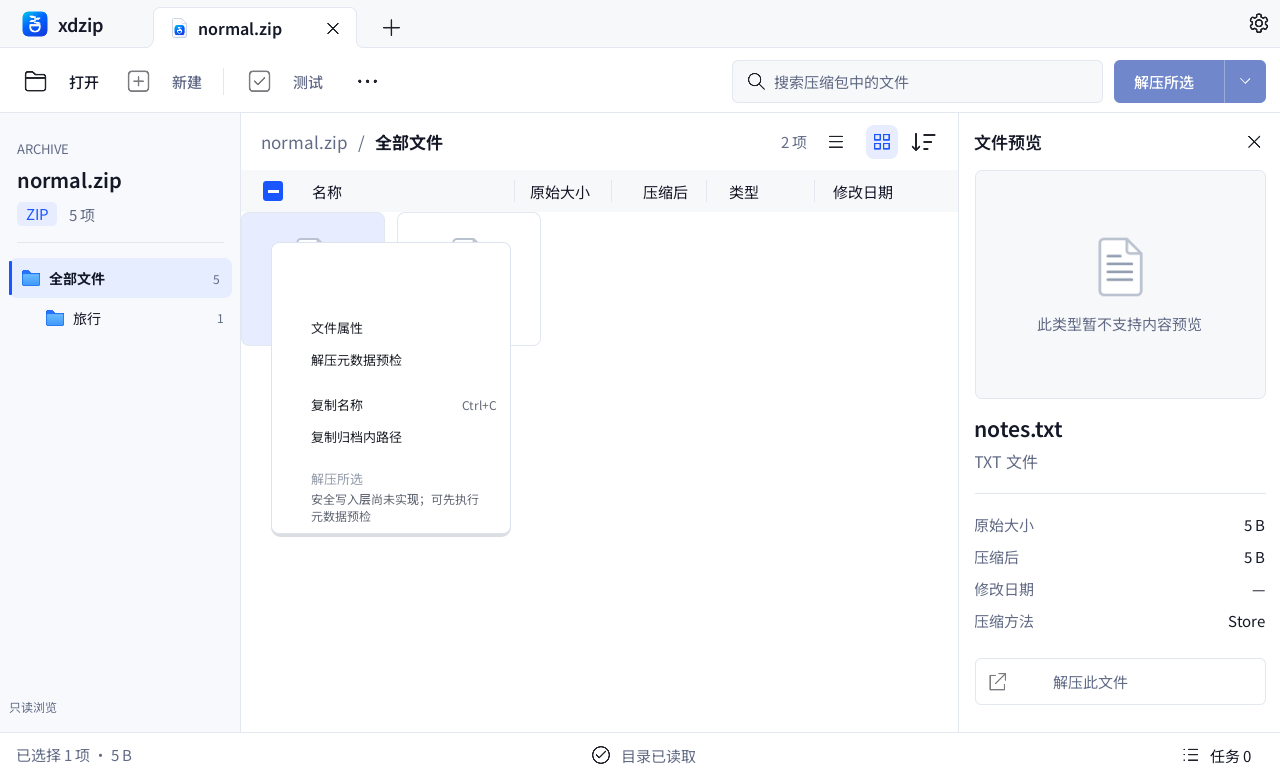
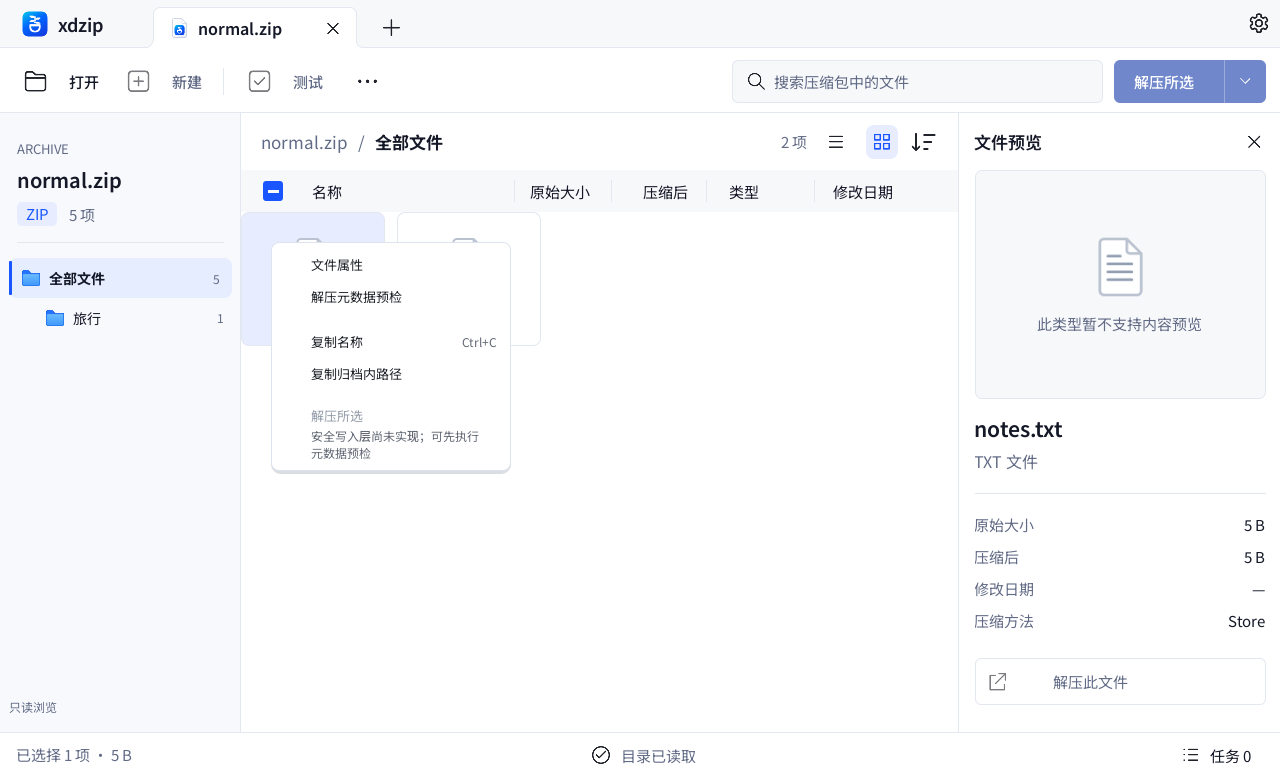
fix(qt): collapse omitted menu commands and reacquire tree controls after relayout

Changed region(s): [[0.2188, 0.3089, 0.4062, 0.7104]]

diff --git a/apps/desktop/ui/CommandMenuItem.qml b/apps/desktop/ui/CommandMenuItem.qml
@@ -9,8 +9,12 @@ MenuItem {
     property string shortcutLabel: ""
     property string disabledReason: ""
     property bool dangerous: false
+    property bool commandVisible: true
+    visible: commandVisible
     implicitWidth: Theme.menuWidth - Theme.menuPadding * 2
-    implicitHeight: Math.max(Theme.menuRowHeight, contentItem.implicitHeight + 8)
+    // Do not use effective visible: closing the popup also hides every normal item.
+    // ListView still lays out omitted commands unless their height is zero.
+    implicitHeight: commandVisible ? Math.max(Theme.menuRowHeight, contentItem.implicitHeight + 8) : 0
     leftPadding: Theme.menuLabelInset
     rightPadding: Theme.menuLabelInset
     topPadding: 4

diff --git a/apps/desktop/ui/Browser.qml b/apps/desktop/ui/Browser.qml
@@ -284,7 +284,7 @@ ApplicationWindow {
             objectName: "contextEnterDirectory"
             text: qsTr("进入目录")
             asset: "folder"
-            visible: Boolean(root.contextEntry.directory)
+            commandVisible: Boolean(root.contextEntry.directory)
             enabled: root.contextAvailable && Boolean(root.contextEntry.navigable)
             disabledReason: qsTr("该条目不具有可导航的安全目录身份")
             onTriggered: reader.enterDirectory(root.contextEntry.row)

diff --git a/apps/desktop/tests/browser_test.cpp b/apps/desktop/tests/browser_test.cpp
@@ -338,23 +338,28 @@ class BrowserTest : public QObject {
                      ->data(controller->entries()->index(0, 0), Qt::UserRole)
                      .toString(),
                  "2");
-        auto *disclosure = findVisual(window->contentItem(), "directoryDisclosure-d1");
-        QVERIFY(disclosure);
-        QTest::mouseClick(
-            window, Qt::LeftButton, Qt::NoModifier,
-            disclosure->mapToScene(QPointF(disclosure->width() / 2, disclosure->height() / 2))
-                .toPoint());
+        // Any relayout can reuse even the parent delegate for another model identity.
+        auto clickParent = [&] {
+            auto *button = findVisual(window->contentItem(), "directoryDisclosure-d1");
+            if (!button)
+                return false;
+            QTest::mouseClick(
+                window, Qt::LeftButton, Qt::NoModifier,
+                button->mapToScene(QPointF(button->width() / 2, button->height() / 2)).toPoint());
+            return true;
+        };
+        QVERIFY(clickParent());
+        QTRY_COMPARE(treeView->property("rows").toInt(), 3);
         QCOMPARE(controller->directoryId(), "d2");
         QCOMPARE(controller->location(), "photos/2026/");
-        auto *marker = findVisual(window->contentItem(), "directoryBranchMarker-d1");
-        QVERIFY(marker);
-        QTRY_VERIFY(marker->isVisible());
-        QTest::mouseClick(
-            window, Qt::LeftButton, Qt::NoModifier,
-            disclosure->mapToScene(QPointF(disclosure->width() / 2, disclosure->height() / 2))
-                .toPoint());
-        QTRY_VERIFY(!marker->isVisible());
+        auto branchMarkerVisible = [&] {
+            auto *marker = findVisual(window->contentItem(), "directoryBranchMarker-d1");
+            return marker && marker->isVisible();
+        };
+        QTRY_VERIFY(branchMarkerVisible());
+        QVERIFY(clickParent());
         QTRY_COMPARE(treeView->property("rows").toInt(), 4);
+        QTRY_VERIFY(!branchMarkerVisible());
         // Collapse/reopen reuses delegates. Assert the rendered hierarchy, not merely
         // the expansion flag, before capturing or allowing a later frame to hide drift.
         for (int cycle = 0; cycle < 8; ++cycle) {
@@ -366,18 +371,6 @@ class BrowserTest : public QObject {
                             parentIcon->mapToScene(QPointF()).x() - 16) < 0.5;
             }());
             if (cycle < 7) {
-                // TreeView may pool even the parent delegate during relayout; locate
-                // the current identity again instead of clicking a stale QObject.
-                auto clickParent = [&] {
-                    auto *button = findVisual(window->contentItem(), "directoryDisclosure-d1");
-                    if (!button)
-                        return false;
-                    QTest::mouseClick(
-                        window, Qt::LeftButton, Qt::NoModifier,
-                        button->mapToScene(QPointF(button->width() / 2, button->height() / 2))
-                            .toPoint());
-                    return true;
-                };
                 QVERIFY(clickParent());
                 QTRY_COMPARE(treeView->property("rows").toInt(), 3);
                 QTRY_VERIFY([&] {
@@ -437,6 +430,13 @@ class BrowserTest : public QObject {
                           cell->mapToScene(QPointF(80, cell->height() / 2)).toPoint());
         QTRY_VERIFY(menu->property("visible").toBool());
         QCOMPARE(controller->selectedCount(), 2);
+        auto *enterDirectory = window->findChild<QQuickItem *>("contextEnterDirectory");
+        auto *properties = window->findChild<QQuickItem *>("contextProperties");
+        QVERIFY(enterDirectory);
+        QVERIFY(properties);
+        QVERIFY(!enterDirectory->isVisible());
+        QTRY_COMPARE(enterDirectory->height(), 0);
+        QTRY_COMPARE(properties->y(), 0);
         QTest::keyClick(window, Qt::Key_Escape);
         QTRY_VERIFY(!menu->property("visible").toBool());
         cell->forceActiveFocus();
